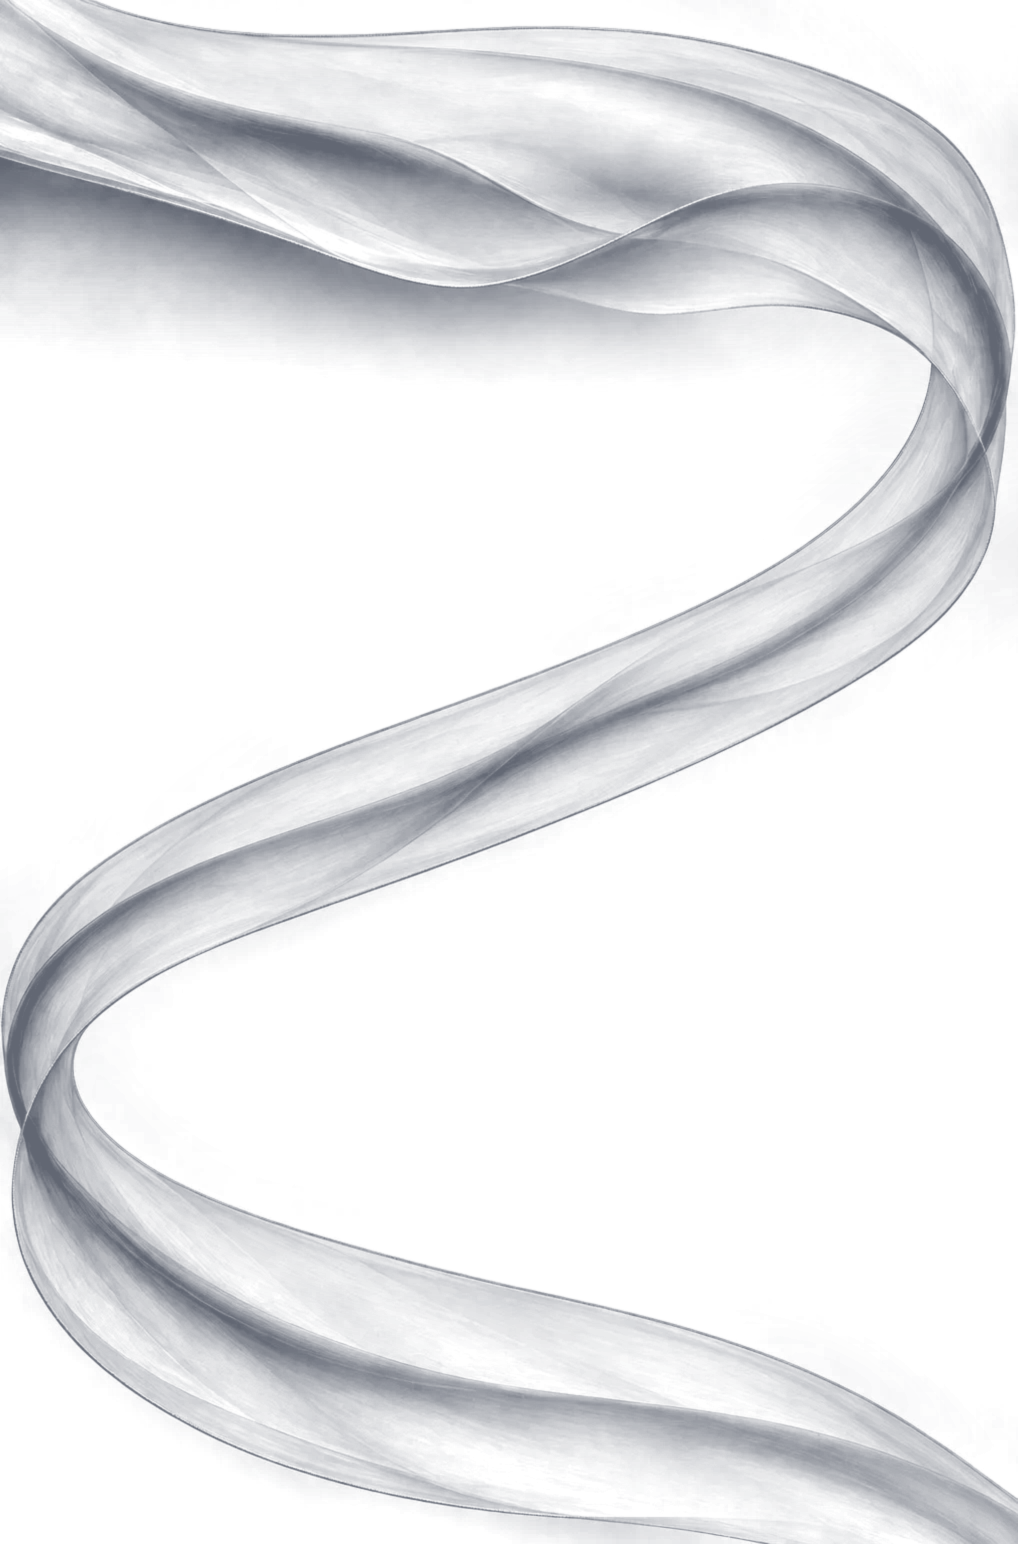
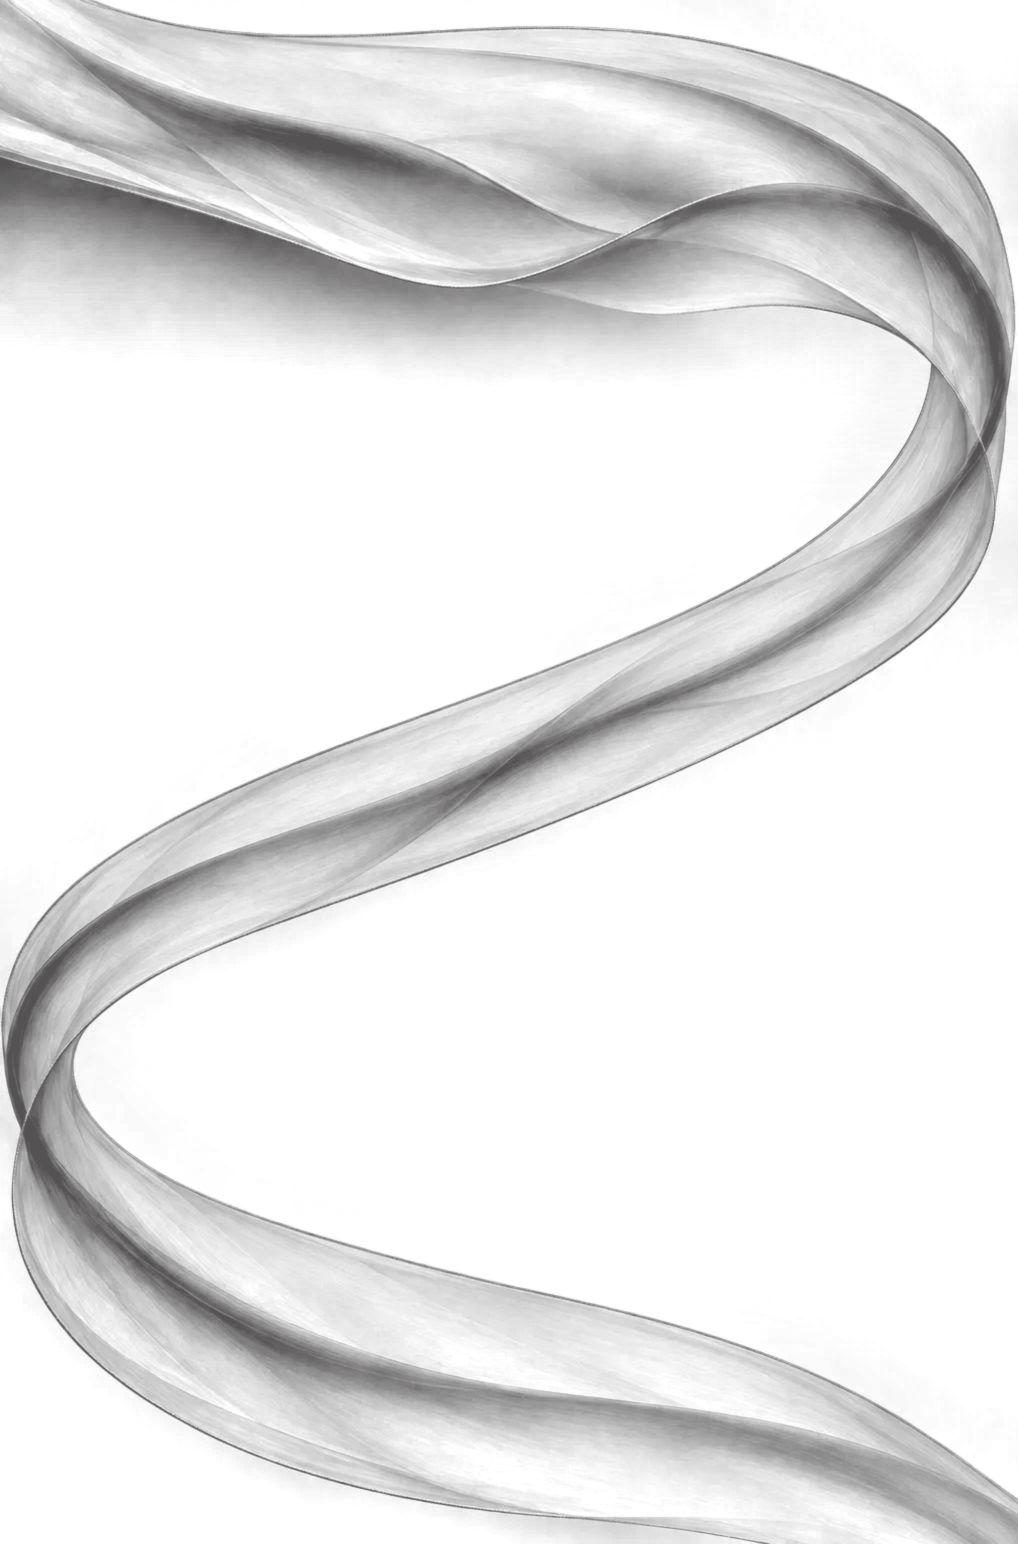
배경 색을 히어로와 같은 계열로 맞추고 히어로 천에서 이어지게 조정
- 페이지 배경과 천 색을 차가운 청회색에서 히어로와 같은 따뜻한 회색 계열로 변경
- 첫 번째 천을 히어로 아래 흩날리는 천에서 이어져 내려오도록 위치 조정

Claude-Session: https://claude.ai/code/session_019UBunucXY7qW5BK89CgzP4

diff --git a/css/style.css b/css/style.css
@@ -4,7 +4,7 @@
 @font-face { font-family: "Bookk Myungjo"; font-weight: 700; font-style: normal; font-display: swap; src: url("../fonts/BookkMyungjo-Bold.woff2") format("woff2"); }
 
 :root {
-  --bg: #e8e9eb;
+  --bg: #e4e2e2;
   --ink: #26272a;
   --mute: #5f6166;
   --line: rgba(38, 39, 42, 0.16);
@@ -56,6 +56,12 @@ a { color: inherit; text-decoration: none; }
 }
 main, .site-footer { position: relative; z-index: 1; }
 
+/* 첫 번째 천은 히어로 바로 아래에서 시작하므로 위쪽 사라짐 구간을 짧게 */
+.silk__layer:first-child {
+  -webkit-mask-image: linear-gradient(to bottom, transparent 0, #000 3%, #000 91%, transparent 100%);
+  mask-image: linear-gradient(to bottom, transparent 0, #000 3%, #000 91%, transparent 100%);
+}
+
 /* 줄 마스크 (텍스트가 아래에서 올라오는 틀) */
 .line { display: block; overflow: hidden; padding-block: 0.08em; margin-block: -0.08em; }
 .line__in { display: block; }
@@ -73,7 +79,7 @@ main, .site-footer { position: relative; z-index: 1; }
   transition: background-color 0.3s ease, backdrop-filter 0.3s ease;
 }
 .site-header.is-solid, .site-header.is-open {
-  background: rgba(232, 233, 235, 0.78);
+  background: rgba(228, 226, 226, 0.78);
   -webkit-backdrop-filter: blur(14px);
   backdrop-filter: blur(14px);
 }
@@ -84,7 +90,7 @@ main, .site-footer { position: relative; z-index: 1; }
   position: absolute;
   top: 64px; left: 0; right: 0;
   padding: 8px var(--gutter) 24px;
-  background: rgba(232, 233, 235, 0.92);
+  background: rgba(228, 226, 226, 0.92);
   -webkit-backdrop-filter: blur(14px);
   backdrop-filter: blur(14px);
   visibility: hidden;
@@ -173,7 +179,7 @@ main, .site-footer { position: relative; z-index: 1; }
 .visit__info { grid-area: info; }
 .visit__map svg { width: 100%; height: 100%; }
 .visit__map iframe { display: block; width: 100%; height: 100%; border: 0; filter: grayscale(1) contrast(0.95); }
-.visit__info { background: rgba(240, 241, 243, 0.55); -webkit-backdrop-filter: blur(10px); backdrop-filter: blur(10px); padding: 22px 24px; display: grid; gap: 18px; align-content: center; }
+.visit__info { background: rgba(238, 236, 236, 0.55); -webkit-backdrop-filter: blur(10px); backdrop-filter: blur(10px); padding: 22px 24px; display: grid; gap: 18px; align-content: center; }
 .visit__info dt { font-size: 0.6875rem; color: var(--mute); }
 .visit__info dd { font-size: 0.9375rem; }
 

diff --git a/css/sub.css b/css/sub.css
@@ -10,7 +10,7 @@
   .nav .sub {
     position: absolute; top: 100%; left: -18px; margin: 0; min-width: 190px; padding: 10px 0;
     display: block;
-    background: rgba(240, 241, 243, 0.94);
+    background: rgba(238, 236, 236, 0.94);
     -webkit-backdrop-filter: blur(14px); backdrop-filter: blur(14px);
     box-shadow: 0 18px 40px -20px rgba(0, 0, 0, 0.25);
     opacity: 0; visibility: hidden; transform: translateY(-6px);
@@ -97,7 +97,7 @@
 
 /* ---------- 클래스 ---------- */
 .programs { display: grid; gap: 14px; }
-.program { padding: 30px 26px 28px; background: rgba(240, 241, 243, 0.72); border: 1px solid var(--line); display: flex; flex-direction: column; }
+.program { padding: 30px 26px 28px; background: rgba(238, 236, 236, 0.72); border: 1px solid var(--line); display: flex; flex-direction: column; }
 .program__tag { font-size: 0.6875rem; letter-spacing: 0.14em; color: var(--mute); }
 .program h3 { margin-top: 8px; font-size: 1.5rem; font-weight: 300; line-height: 1.3; }
 .program__desc { margin-top: 12px; font-size: 0.9375rem; color: var(--mute); line-height: 1.8; word-break: keep-all; }

diff --git a/js/silk.js b/js/silk.js
@@ -26,7 +26,7 @@
     root.innerHTML = '';
     layers = [];
     var width = Math.max(W * 1.1, 960);                // 화면보다 넓게 깔아 일렁여도 가장자리가 안 보이게
-    var top = heroBottom - Math.min(160, width * 0.1);
+    var top = heroBottom - width * CLOTH.ratio * 0.09;   // 첫 천은 히어로 아래쪽의 흩날리는 천과 겹쳐 시작
     var i = 0;
     while (top < docH && i < 24) {
       var c = CLOTH;
